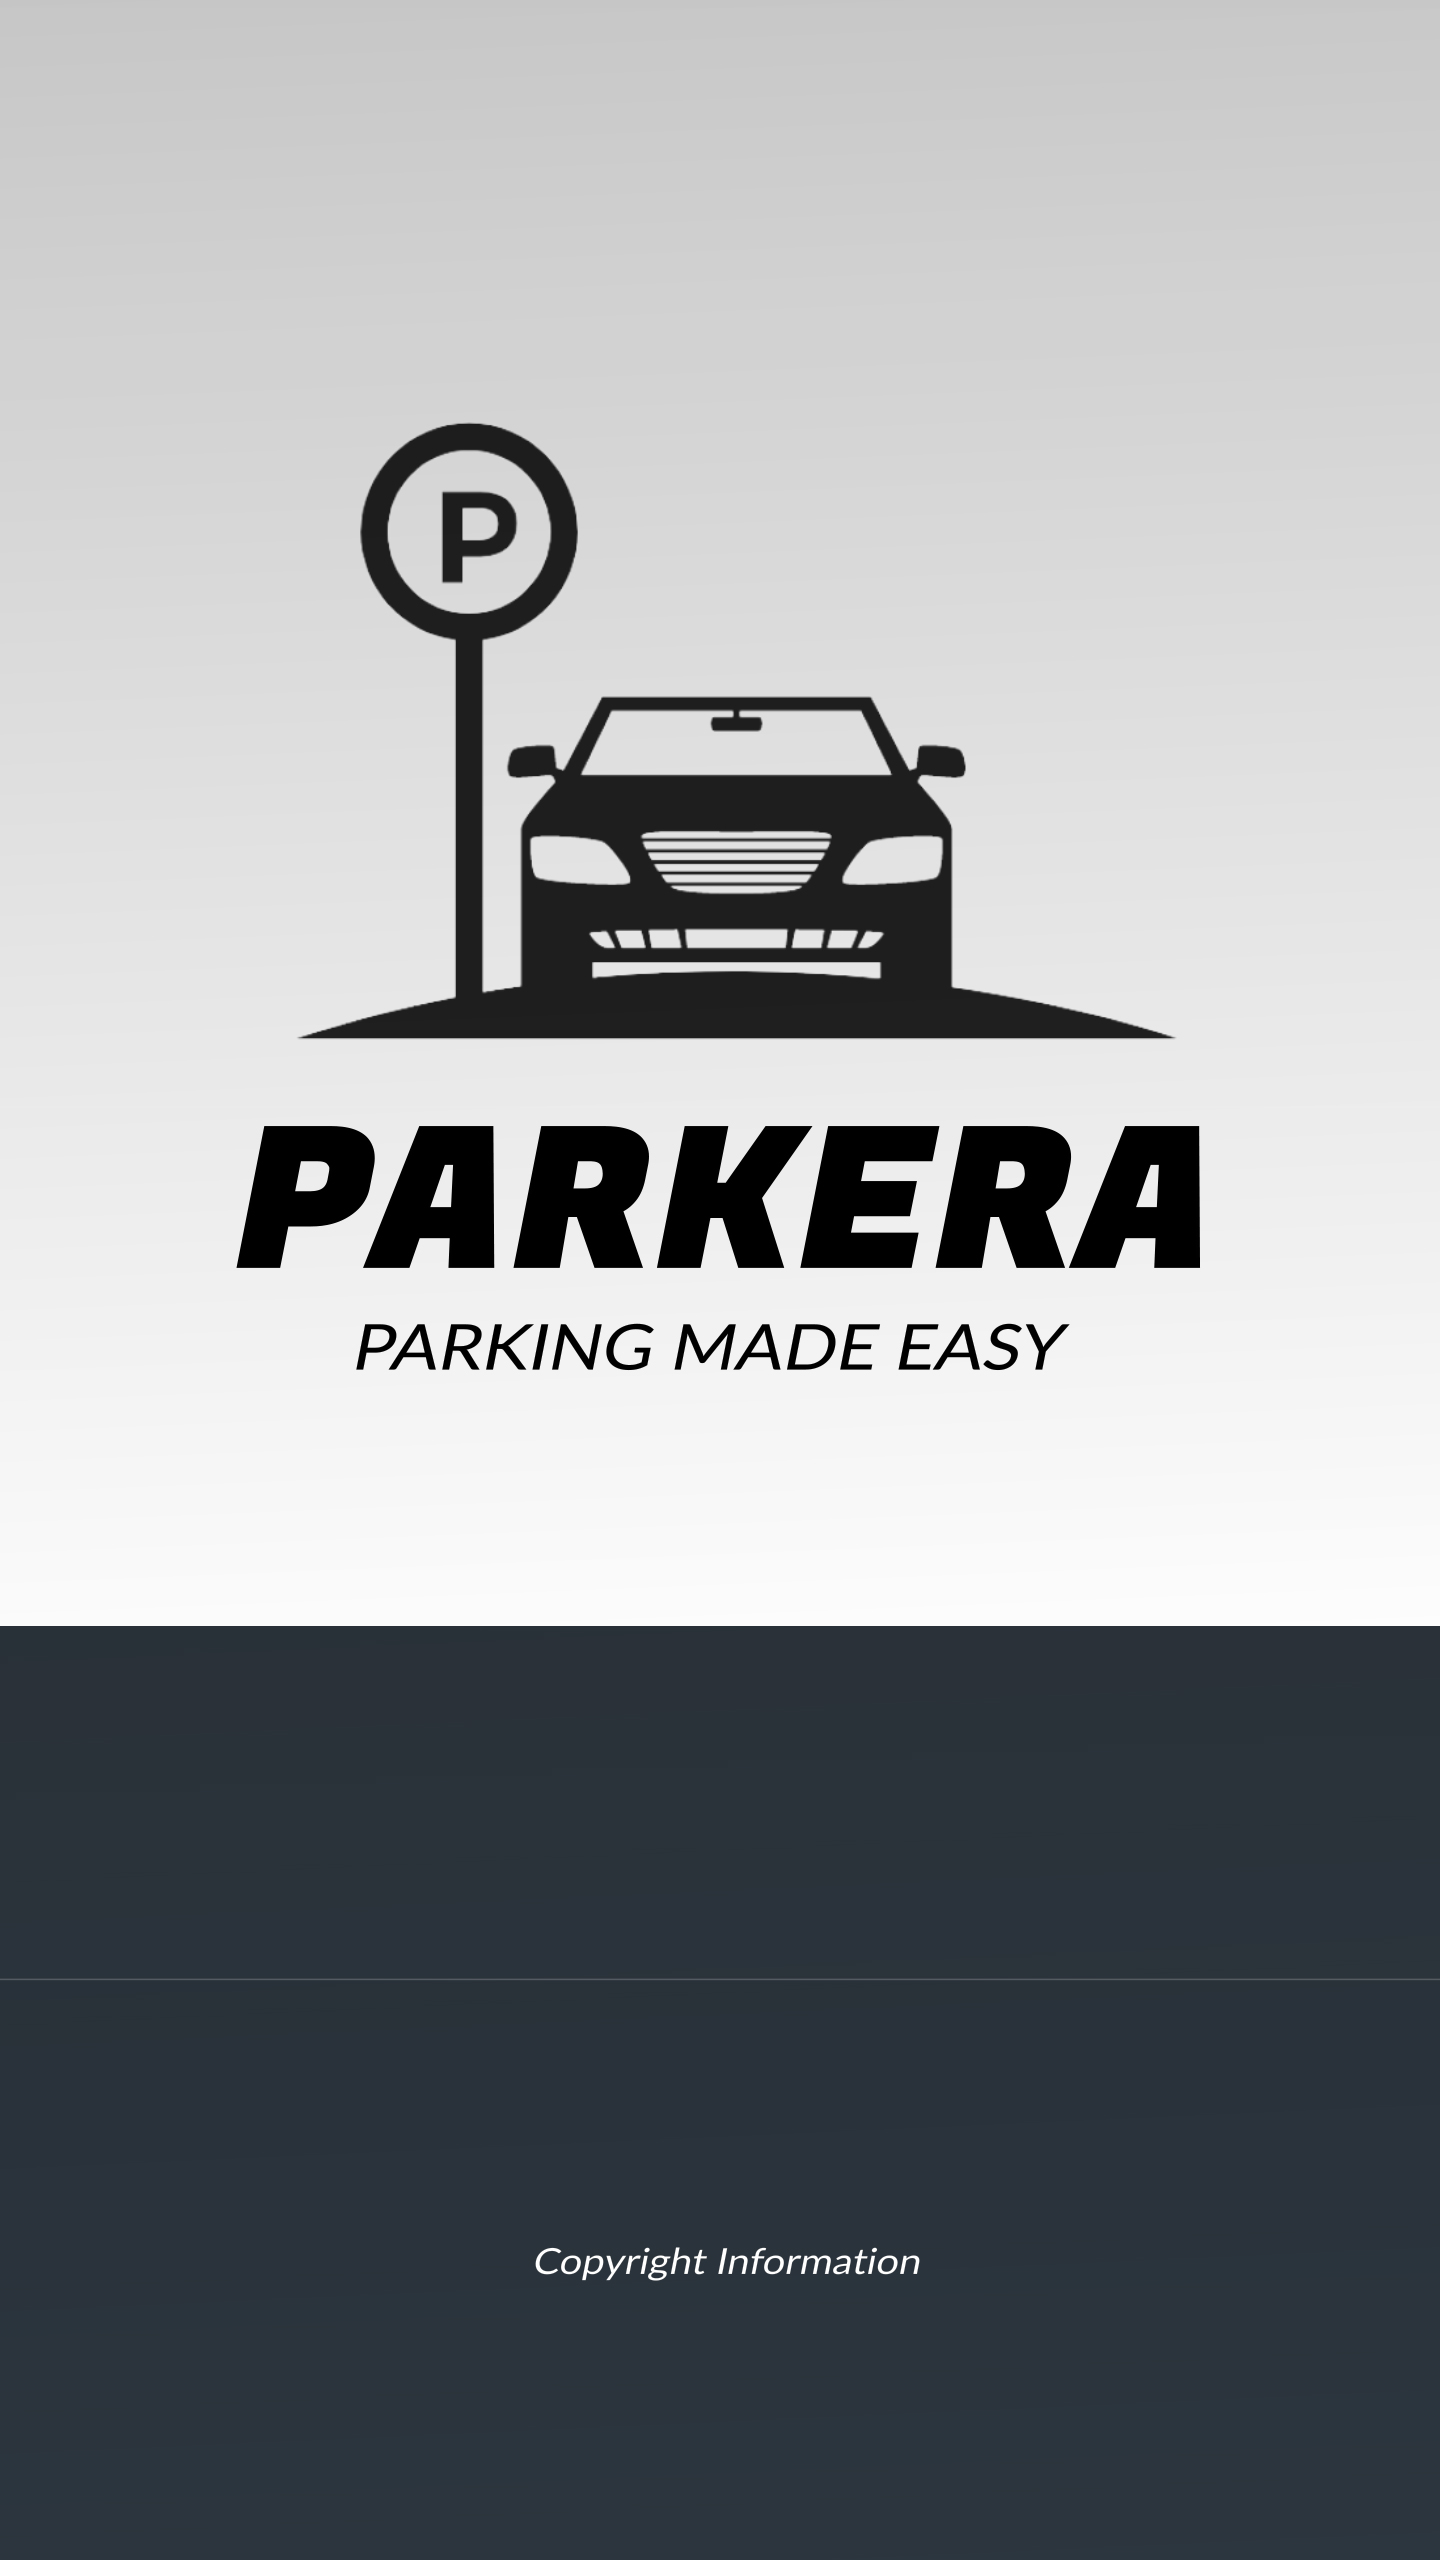
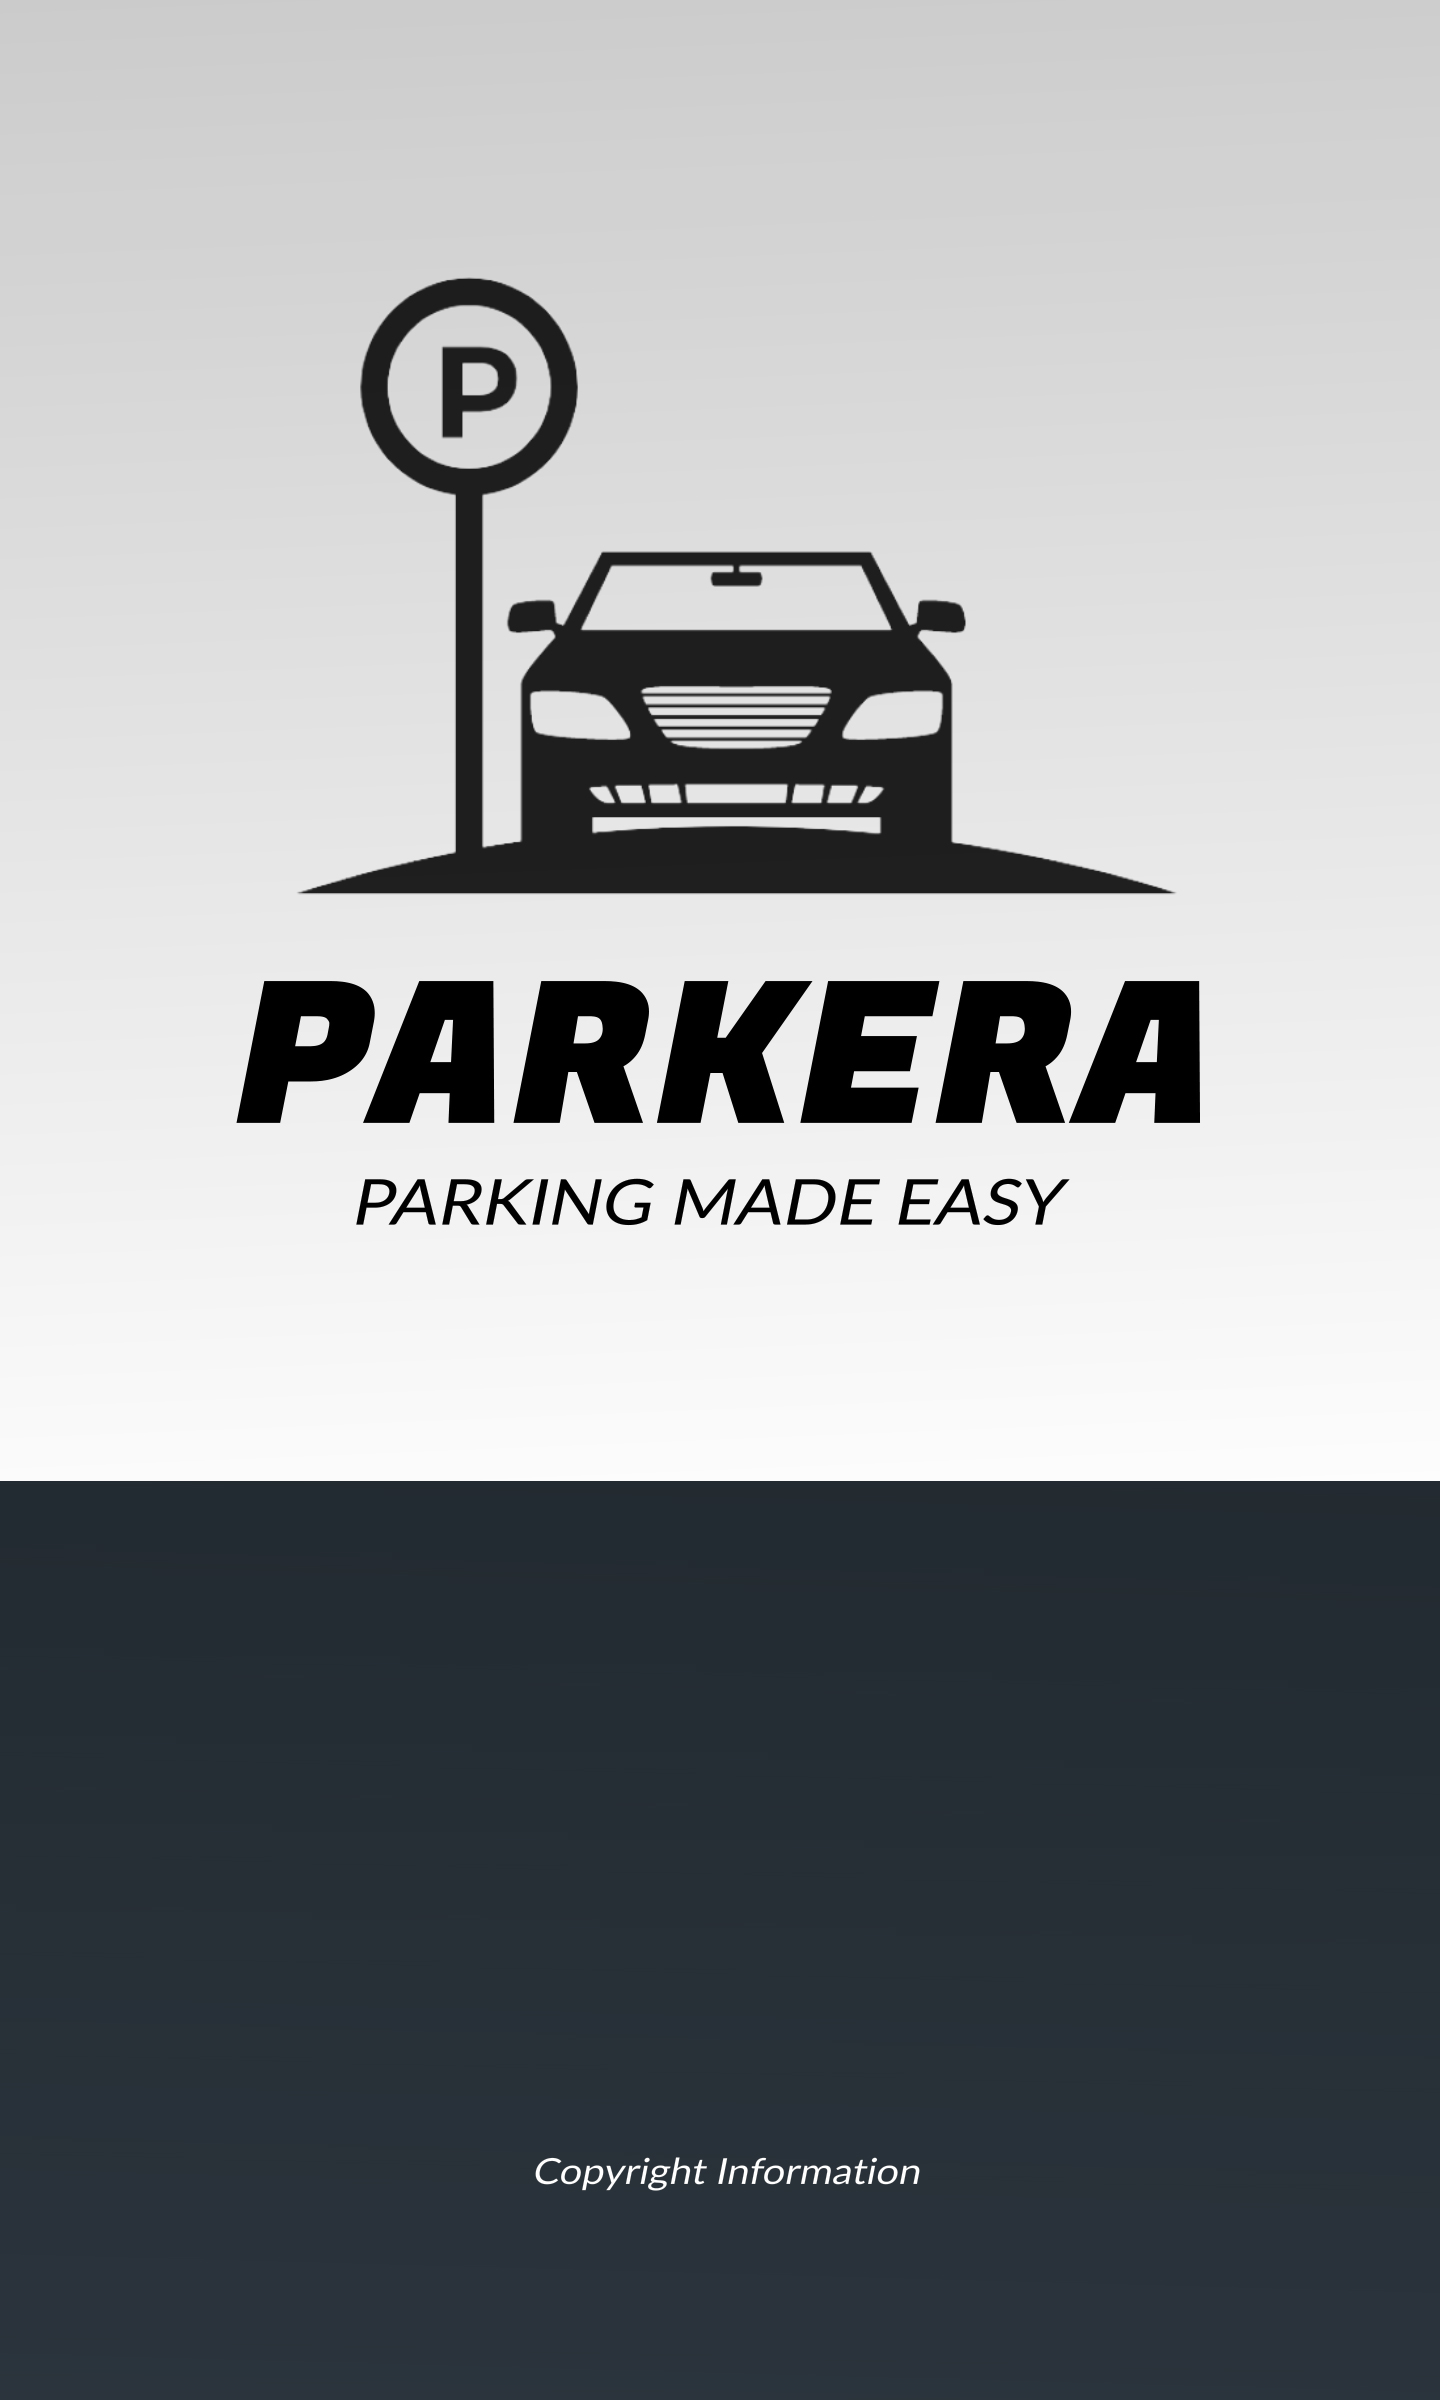
Added background to landing page and modified button colors and fonts.

Changed region(s): [[0.1562, 0.0938, 0.8438, 0.5312], [0.0, 0.5938, 1.0, 0.6562], [0.375, 0.875, 0.625, 0.9062]]

diff --git a/lib/signup.dart b/lib/signup.dart
@@ -28,7 +28,8 @@ class _SignUpState extends State<SignUp> {
                       child: Text(
                         'Signup',
                         style: TextStyle(
-                            fontSize: 80.0, fontWeight: FontWeight.bold),
+                            fontSize: 80.0, fontWeight: FontWeight.bold,
+                            fontFamily: 'Lato'),
                       ),
                     ),
                     Container(
@@ -38,7 +39,7 @@ class _SignUpState extends State<SignUp> {
                         style: TextStyle(
                             fontSize: 80.0,
                             fontWeight: FontWeight.bold,
-                            color: Colors.green),
+                            color: Colors.teal),
                       ),
                     )
                   ],
@@ -58,7 +59,7 @@ class _SignUpState extends State<SignUp> {
                         decoration: InputDecoration(
                             labelText: 'EMAIL',
                             labelStyle: TextStyle(
-                                fontFamily: 'Montserrat',
+                                fontFamily: 'Lato',
                                 fontWeight: FontWeight.bold,
                                 color: Colors.grey),
                             // hintText: 'EMAIL',
@@ -77,7 +78,7 @@ class _SignUpState extends State<SignUp> {
                         decoration: InputDecoration(
                             labelText: 'PASSWORD ',
                             labelStyle: TextStyle(
-                                fontFamily: 'Montserrat',
+                                fontFamily: 'Lato',
                                 fontWeight: FontWeight.bold,
                                 color: Colors.grey),
                             focusedBorder: UnderlineInputBorder(
@@ -100,8 +101,8 @@ class _SignUpState extends State<SignUp> {
                           height: 40.0,
                           child: Material(
                             borderRadius: BorderRadius.circular(20.0),
-                            shadowColor: Colors.greenAccent,
-                            color: Colors.green,
+                            shadowColor: Colors.tealAccent,
+                            color: Colors.teal,
                             elevation: 7.0,
                             child: GestureDetector(
                               onTap: () {},
@@ -111,7 +112,7 @@ class _SignUpState extends State<SignUp> {
                                   style: TextStyle(
                                       color: Colors.white,
                                       fontWeight: FontWeight.bold,
-                                      fontFamily: 'Montserrat'),
+                                      fontFamily: 'Lato'),
                                 ),
                               ),
                             ),
@@ -136,7 +137,7 @@ class _SignUpState extends State<SignUp> {
                               child: Text('Go Back',
                                   style: TextStyle(
                                       fontWeight: FontWeight.bold,
-                                      fontFamily: 'Montserrat')),
+                                      fontFamily: 'Lato')),
                             ),
                           ),
                         ),
@@ -152,8 +153,10 @@ class _SignUpState extends State<SignUp> {
                       MaterialPageRoute(builder: (context) => Home()),
                     );
                   },
-                  child: Text(
-                    "Navigate To Homepage",
+                  child: Text("Navigate To Homepage",
+                    style: TextStyle(
+                      fontFamily: 'Lato'
+                    ),
                   ),
                 ),
               )

diff --git a/lib/login.dart b/lib/login.dart
@@ -28,7 +28,8 @@ class _LoginState extends State<Login> {
                       child: Text(
                         'Log In',
                         style: TextStyle(
-                            fontSize: 80.0, fontWeight: FontWeight.bold),
+                            fontSize: 80.0, fontWeight: FontWeight.bold,
+                            fontFamily: 'Lato'),
                       ),
                     )
                   ],
@@ -48,7 +49,7 @@ class _LoginState extends State<Login> {
                         decoration: InputDecoration(
                             labelText: 'EMAIL',
                             labelStyle: TextStyle(
-                                fontFamily: 'Montserrat',
+                                fontFamily: 'Lato',
                                 fontWeight: FontWeight.bold,
                                 color: Colors.grey),
                             // hintText: 'EMAIL',
@@ -67,7 +68,7 @@ class _LoginState extends State<Login> {
                         decoration: InputDecoration(
                             labelText: 'PASSWORD ',
                             labelStyle: TextStyle(
-                                fontFamily: 'Montserrat',
+                                fontFamily: 'Lato',
                                 fontWeight: FontWeight.bold,
                                 color: Colors.grey),
                             focusedBorder: UnderlineInputBorder(
@@ -90,8 +91,8 @@ class _LoginState extends State<Login> {
                           height: 40.0,
                           child: Material(
                             borderRadius: BorderRadius.circular(20.0),
-                            shadowColor: Colors.greenAccent,
-                            color: Colors.green,
+                            shadowColor: Colors.tealAccent,
+                            color: Colors.teal,
                             elevation: 7.0,
                             child: GestureDetector(
                               onTap: () {},
@@ -101,7 +102,7 @@ class _LoginState extends State<Login> {
                                   style: TextStyle(
                                       color: Colors.white,
                                       fontWeight: FontWeight.bold,
-                                      fontFamily: 'Montserrat'),
+                                      fontFamily: 'Lato'),
                                 ),
                               ),
                             ),
@@ -126,7 +127,7 @@ class _LoginState extends State<Login> {
                               child: Text('Go Back',
                                   style: TextStyle(
                                       fontWeight: FontWeight.bold,
-                                      fontFamily: 'Montserrat')),
+                                      fontFamily: 'Lato')),
                             ),
                           ),
                         ),

diff --git a/lib/landing.dart b/lib/landing.dart
@@ -22,18 +22,19 @@ class Landing extends StatelessWidget {
             ],
           )
         ),
-        body: Center(
+        body: Container(
+          decoration: BoxDecoration(
+              image: DecorationImage(
+                image: AssetImage('assets/images/landing.jpg'),
+                fit: BoxFit.fill,
+              )
+          ),
           child: Column(
               children: <Widget>[
                 Container(
-                  decoration: BoxDecoration(
-                    image: DecorationImage(
-                      image: AssetImage('assets/images/landing.jpg'),
-                      fit: BoxFit.cover,
-                    )
-                  ),
+
                 ),
-                SizedBox(height: 300.0),
+                SizedBox(height: 440.0),
                 Container(
                     width: 250,
                     height: 50.0,
@@ -69,7 +70,7 @@ class Landing extends StatelessWidget {
                   child: Container(
                     decoration: BoxDecoration(
                         border: Border.all(
-                            color: Colors.black,
+                            color: Colors.white,
                             style: BorderStyle.solid,
                             width: 2.0),
                         color: Colors.transparent,
@@ -84,7 +85,7 @@ class Landing extends StatelessWidget {
                       child: Center(
                         child: Text('Sign Up',
                             style: TextStyle(
-                                color: Colors.black,
+                                color: Colors.white,
                                 fontSize: 20.0,
                                 fontWeight: FontWeight.w900,
                                 fontFamily: 'Lato')),

diff --git a/lib/home.dart b/lib/home.dart
@@ -29,12 +29,21 @@ class Home extends StatelessWidget {
   Widget build(BuildContext context) {
     return Scaffold(
       appBar: AppBar(
-        title: const Text('Floating Action Button'),
+        title: const Text('Floating Action Button',
+        style: TextStyle(
+          fontFamily: 'Lato'
+        )),
       ),
       body: Center(child: Column( children: <Widget>[
-        const Text('Press the button below!'),
+        const Text('Press the button below!',
+          style: TextStyle(
+            fontFamily: 'Lato'
+          )),
         OutlineButton(
-            child: new Text("add a car"),
+            child: new Text("add a car",
+            style: TextStyle(
+              fontFamily: 'Lato'
+            ),),
             onPressed: ()=> _addCarInfo(context),
             shape: new RoundedRectangleBorder(borderRadius: new BorderRadius.circular(30.0))
         )
